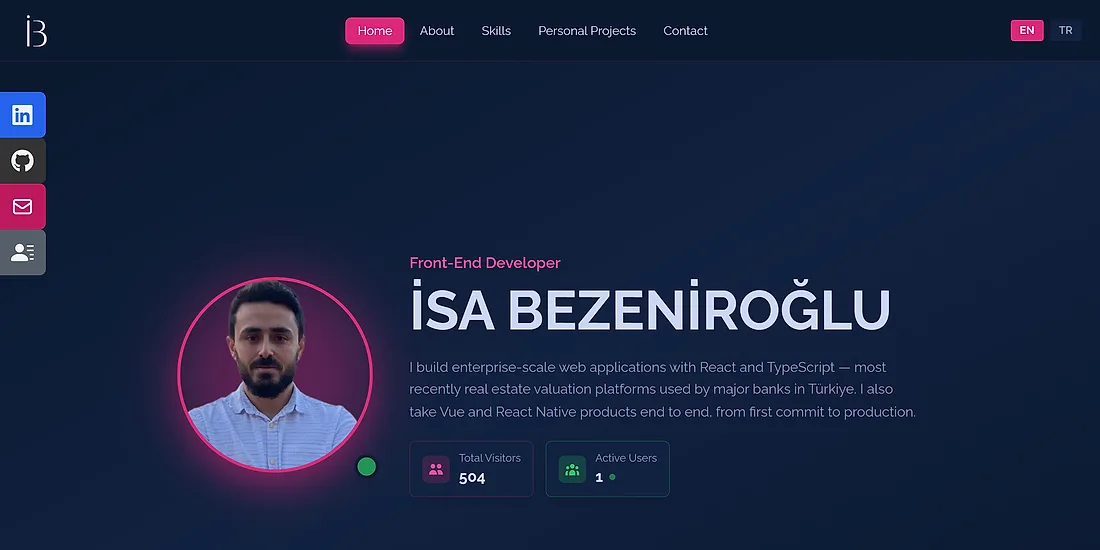
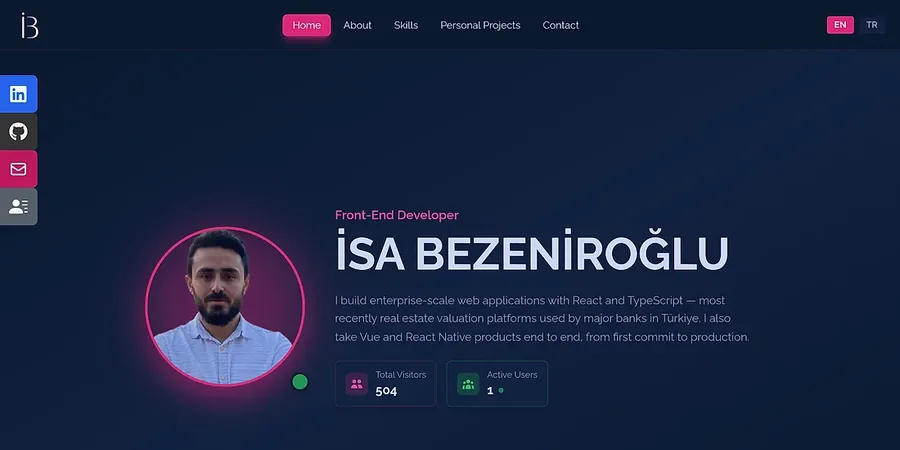
Serve card images at the size the card actually is (#57)
The three project images shipped at 1100x550 into a card that is never
wider than about 405px, in the two-column range — well over twice the
pixels anyone can see, and the largest thing left on the mobile home
page, which the budget now warns at 0.88.

Each image gets a 560w and a 900w variant with srcset and sizes. A 1x
screen takes 560w with room to spare and a 2x screen 900w, so the three
come to 104.3 kB instead of 147, and 61.9 kB where the device does not
need the density.

The widths follow what the card measures rather than round numbers. An
earlier pass used 400w and 800w and looked soft on a 1x desktop: at
370px displayed, 400w leaves 8% of headroom, so there is no downscale
left to hide compression behind. The small variant also runs at q88
rather than q82 for the same reason, and vargelogluinsaat.webp — a dense
screenshot — is where it showed first.

That file was 104.6 kB against 28.4 for portfolio.webp at identical
dimensions. Re-encoding alone reached 81.5 kB at q75 and cost visible
quality, because the detail is real; fewer pixels was what it needed,
not more compression.

The hero keeps its resolution — 512px wide for a 256px slot is exactly
2x — but gains fetchPriority="high". It is the LCP element on the
landing route and the browser could not know that until it had parsed
the markup. Its declared height was also 512 against a natural 836.

Changed region(s): [[0.3733, 0.4667, 0.4978, 0.4978], [0.3111, 0.0311, 0.3422, 0.0622], [0.0, 0.1867, 0.0311, 0.2178]]

diff --git a/src/data/data.ts b/src/data/data.ts
@@ -1,12 +1,17 @@
 import PortfolioImg from '../assets/projects/portfolio.webp';
+import PortfolioImgSmall from '../assets/projects/portfolio-560.webp';
 import VargelogluInsaatImg from '../assets/projects/vargelogluinsaat.webp';
+import VargelogluInsaatImgSmall from '../assets/projects/vargelogluinsaat-560.webp';
 import GamingProMarketImg from '../assets/projects/gamingpromarket.webp';
+import GamingProMarketImgSmall from '../assets/projects/gamingpromarket-560.webp';
 import type { CaseStudySlug } from '../lib/caseStudies';
 
 export interface Project {
   id: number;
   name: string;
+  /** 900w. Paired with a 560w variant so the browser can pick. */
   image: string;
+  imageSmall: string;
   github: string;
   live: string;
   /** Present only for projects that have a written case study. */
@@ -18,6 +23,7 @@ export const data: Project[] = [
     id: 1,
     name: 'isabezeniroglu.com',
     image: PortfolioImg,
+    imageSmall: PortfolioImgSmall,
     github: 'https://github.com/ibznroglu/MyPortfolio',
     live: 'https://isabezeniroglu.com/',
     caseStudy: 'portfolio',
@@ -26,6 +32,7 @@ export const data: Project[] = [
     id: 2,
     name: 'Vargeloğlu İnşaat',
     image: VargelogluInsaatImg,
+    imageSmall: VargelogluInsaatImgSmall,
     github: 'https://github.com/ibznroglu/vargeloglu-insaat-Vue',
     live: 'https://www.vargelogluinsaat.com/',
     caseStudy: 'vargeloglu-insaat',
@@ -34,6 +41,7 @@ export const data: Project[] = [
     id: 3,
     name: 'Gaming Pro Market',
     image: GamingProMarketImg,
+    imageSmall: GamingProMarketImgSmall,
     github: '',
     live: '',
     caseStudy: 'gaming-pro-market',

diff --git a/src/components/ProjectCard.tsx b/src/components/ProjectCard.tsx
@@ -27,13 +27,18 @@ const ProjectCard = ({ project, headingLevel = 2 }: Props) => {
   return (
     <li className="group flex flex-col overflow-hidden rounded-xl bg-raised border border-hairline/5 hover:border-accent-soft/40 focus-within:border-accent-soft/40 transition-colors duration-300">
       <div className="aspect-[2/1] overflow-hidden bg-surface">
+        {/* The widest this card ever gets is about 405px, in the two-column
+            range. 560w leaves a 1x screen some headroom and 900w covers 2x;
+            sizes tells the browser which to take before layout is known. */}
         <img
           src={project.image}
+          srcSet={`${project.imageSmall} 560w, ${project.image} 900w`}
+          sizes="(min-width: 1024px) 370px, (min-width: 640px) 45vw, calc(100vw - 3rem)"
           alt={project.name}
           loading="lazy"
           decoding="async"
-          width="1100"
-          height="550"
+          width="900"
+          height="450"
           className="h-full w-full object-cover transition-transform duration-500 group-hover:scale-[1.04]"
         />
       </div>

diff --git a/src/components/Home.tsx b/src/components/Home.tsx
@@ -41,7 +41,8 @@ const Home = () => {
                   src={IsaImg}
                   alt="İsa Bezeniroğlu"
                   width="512"
-                  height="512"
+                  height="836"
+                  fetchPriority="high"
                   className="relative h-48 w-48 rounded-full border-4 border-accent object-cover shadow-2xl shadow-accent/50 sm:h-64 sm:w-64"
                   style={{ objectPosition: '50% calc(50% + 2rem)' }}
                 />
@@ -105,9 +106,7 @@ const Home = () => {
                   decoding="async"
                   className="h-10 w-10"
                 />
-                <span className="text-xs font-semibold leading-tight text-muted">
-                  {skill.name}
-                </span>
+                <span className="text-xs font-semibold leading-tight text-muted">{skill.name}</span>
               </li>
             ))}
           </ul>
